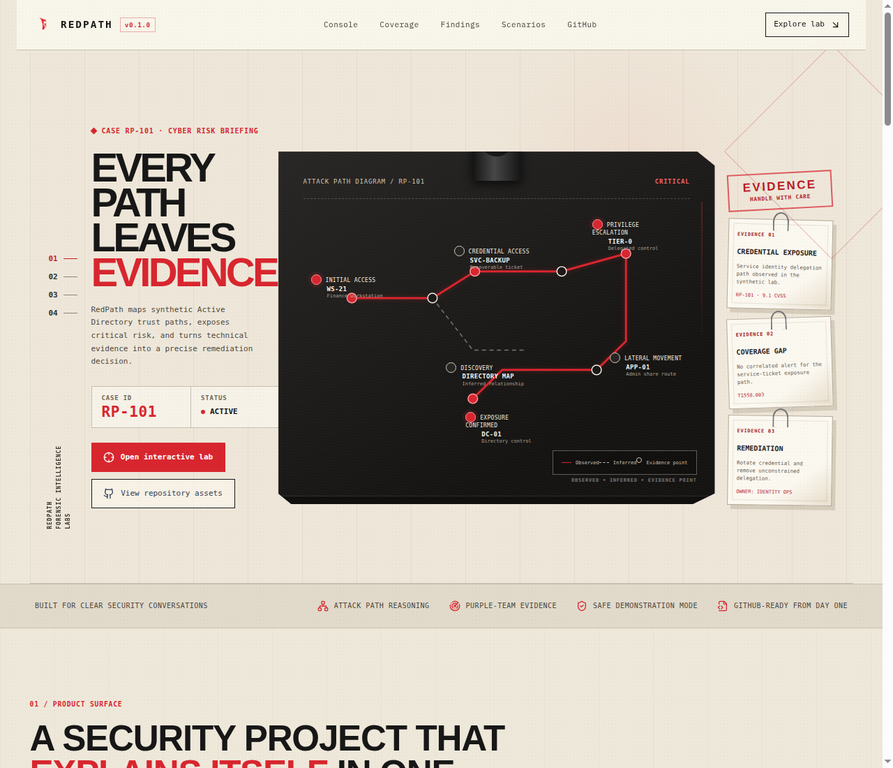
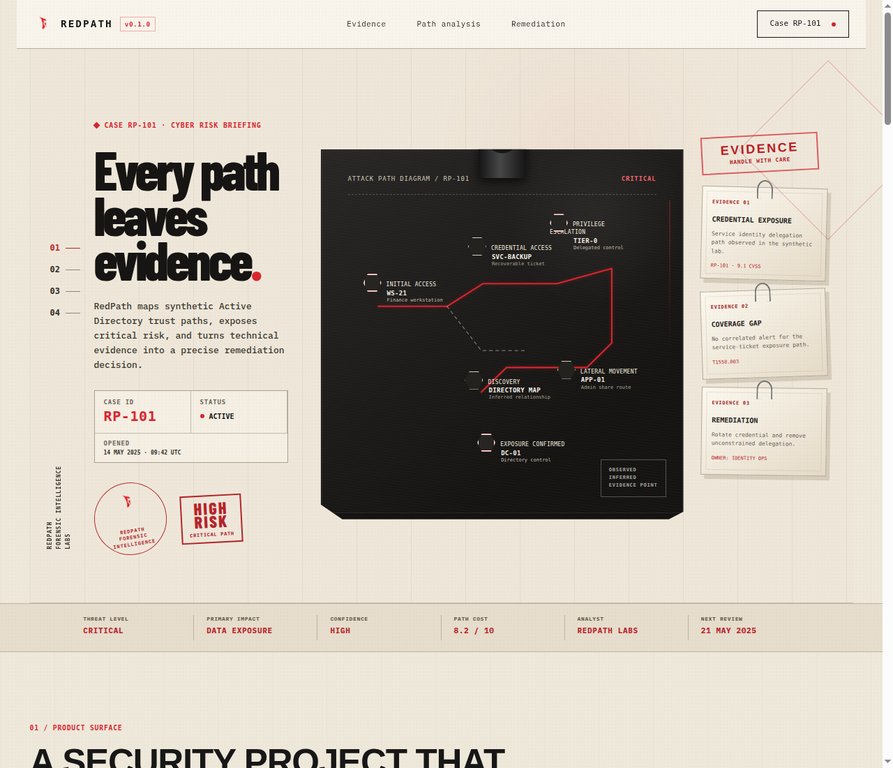
design: rebuild forensic casefile hero

diff --git a/frontend/src/forensic-exact-reference.css b/frontend/src/forensic-exact-reference.css
@@ -1,0 +1,10 @@
+/* Exact reference composition: RedPath content, forensic case-file structure. */
+.site-header { height: 70px; background: rgba(248,244,235,.96); border-bottom-color: #b9ae9b; }.site-nav { gap: 38px; }.site-nav a { font-family: "IBM Plex Mono", ui-monospace, monospace; font-size: 11px; color: #2f2a24; }.site-nav a:hover { color: #bb1f28; }.header-cta { position: relative; min-width: 132px; justify-content: center; padding: 10px 13px; border-radius: 0; background: #f7f2e9; }.header-cta::after { content: ""; width: 6px; height: 6px; margin-left: 8px; background: #cf2730; border-radius: 50%; }
+.hero { grid-template-columns: 342px minmax(560px, 1fr) 210px; min-height: 698px; gap: 34px; padding: 92px 38px 68px 116px; background: linear-gradient(90deg, rgba(88,73,53,.07) 1px, transparent 1px) 0 0 / 78px 100%, radial-gradient(circle at 67% 18%, rgba(217,39,48,.048), transparent 22%), #eee7d9; }.hero::after { width: 182px; height: 182px; right: -55px; top: 54px; }.hero-copy { align-self: start; padding-top: 10px; }.hero h1 { max-width: 355px; margin: 23px 0 24px; color: #171513; font-family: "Barlow Condensed", "Arial Narrow", sans-serif; font-size: clamp(74px, 6vw, 100px); font-weight: 800; line-height: .84; letter-spacing: -.055em; text-transform: none; }.hero h1 em { color: #161513; font-style: normal; }.hero h1 em::after { content: "."; color: #d8262f; }.hero-lede { max-width: 302px; color: #403a32; font: 500 13px/1.62 "IBM Plex Mono", ui-monospace, monospace; }.eyebrow { font-size: 10px; }.case-file-badge { display: grid; grid-template-columns: 1fr 1fr; width: 278px; margin-top: 26px; border-color: #aaa08f; background: rgba(250,247,239,.48); }.case-file-badge > div { min-height: 60px; padding: 11px 13px; border-color: #c3b9a8; }.case-file-badge strong { font-size: 20px; }.case-file-badge b { font-size: 10px; }.case-file-badge .case-opened { grid-column: 1 / -1; min-height: auto; padding: 9px 13px; border-right: 0; border-top: 1px solid #c3b9a8; }.case-file-badge .case-opened b { display: block; margin-top: 4px; color: #3b352d; font-size: 8px; }.hero-actions { display: none; }.case-stamp-row { display: flex; align-items: center; gap: 20px; margin-top: 28px; }.forensic-seal { display: grid; place-items: center; width: 104px; height: 104px; border: 1px solid #b92a30; border-radius: 50%; color: #b72a30; text-align: center; transform: rotate(-9deg); }.forensic-seal img { width: 30px; height: 35px; object-fit: contain; }.forensic-seal span { max-width: 66px; margin-top: -1px; font: 700 7px/1.35 "IBM Plex Mono", monospace; letter-spacing: .13em; }.risk-stamp { padding: 8px 10px 6px; color: #b6232b; border: 2px solid #b6232b; font: 800 24px/.78 "Barlow Condensed", sans-serif; letter-spacing: .09em; text-align: center; transform: rotate(-3deg); }.risk-stamp small { display: block; margin-top: 5px; font: 800 7px "IBM Plex Mono", monospace; letter-spacing: .1em; }
+.case-index-rail { top: 278px; left: 29px; gap: 17px; }.case-index-rail span { font-size: 12px; }.case-index-rail span::after { width: 21px; }
+.hero-panel { height: 572px; min-height: 572px; margin: 0; border: 1px solid #151412; border-bottom-width: 9px; clip-path: polygon(0 0, 100% 0, 100% 98%, 96% 100%, 6% 100%, 0 96%); background: repeating-linear-gradient(8deg, rgba(255,255,255,.02) 0 1px, transparent 1px 4px), radial-gradient(circle at 76% 18%, rgba(255,255,255,.05), transparent 23%), linear-gradient(145deg, #292725, #151412 76%); box-shadow: 0 18px 22px rgba(58,43,25,.32), inset 0 0 0 1px rgba(255,255,255,.08); }.hero-panel::before { top: -42px; width: 69px; height: 82px; }.hero-panel::after { content: "OBSERVED\A INFERRED\A EVIDENCE POINT"; white-space: pre; right: 24px; bottom: 23px; padding: 9px 11px; border: 1px solid rgba(255,255,255,.27); color: rgba(255,255,255,.62); font-size: 7px; line-height: 1.6; }.case-board { padding: 35px 38px 28px; }.case-board-head { padding-bottom: 15px; }.case-board-route { height: 411px; margin-top: 16px; }.case-board-route svg { inset: 26px 4px 0; height: 342px; }.case-board-route path { stroke-width: 2.5; }.case-board-route circle { display: none; }.board-point { max-width: 126px; font-size: 8px; }.board-point::before { width: 26px; height: 26px; margin: 0 7px -8px 0; border-radius: 0; clip-path: polygon(25% 0,75% 0,100% 50%,75% 100%,25% 100%,0 50%); background: #24221f; }.board-point b { margin-left: 34px; font-size: 9px; }.board-point small { margin-left: 34px; font-size: 7px; }.board-point.initial { left: 5%; top: 26%; }.board-point.credential { left: 39%; top: 12%; }.board-point.privilege { right: 6%; top: 3%; }.board-point.discovery { left: 38%; bottom: 25%; }.board-point.lateral { right: 6%; bottom: 29%; }.board-point.exfil { left: 42%; bottom: 1%; }.board-point.hot::before { background: #272522; box-shadow: inset 0 0 0 1px #f2eadd, 0 0 0 1px rgba(255,255,255,.25); }.board-point.hot b { color: #f4ede2; }.board-point.hot small { color: #c9bfb0; }.board-legend { display: none; }
+.case-evidence-rail { align-self: start; gap: 14px; padding-top: 31px; }.case-evidence-rail::after { top: 164px; right: -18px; padding: 15px 9px 10px; }.evidence-stamp { width: 190px; margin: 0 0 7px; padding: 10px 8px; font-size: 18px; }.evidence-card { min-height: 142px; padding: 17px 14px 12px; background: linear-gradient(145deg,#fbf8ef,#e5dac7); box-shadow: 5px 6px 0 rgba(106,81,57,.18); }.evidence-card b { font-size: 10px; }.evidence-card p { font-size: 8px; line-height: 1.58; }.evidence-card em { font-size: 7px; }
+.forensic-ledger { display: grid; grid-template-columns: repeat(6, 1fr); gap: 0; max-width: 100%; padding: 16px 8%; border-top: 1px solid #bdb29f; border-bottom: 1px solid #bdb29f; background: #e6ddcc; }.forensic-ledger > div { min-height: 36px; padding: 0 18px; border-right: 1px solid #bdb29f; }.forensic-ledger > div:last-child { border-right: 0; }.forensic-ledger span { display: block; color: #655b4e; font: 700 8px "IBM Plex Mono", monospace; letter-spacing: .08em; }.forensic-ledger b { display: block; margin-top: 5px; color: #b8222b; font: 800 11px "IBM Plex Mono", monospace; letter-spacing: .06em; }
+@media (max-width: 1320px) { .hero { grid-template-columns: 300px minmax(500px,1fr) 180px; gap: 25px; padding-left: 92px; }.hero h1 { max-width: 310px; font-size: 77px; }.hero-panel { height: 530px; min-height: 530px; }.case-board-route { height: 373px; }.case-board-route svg { height: 314px; }.evidence-card { min-height: 126px; }.evidence-stamp { width: 168px; } }
+@media (max-width: 1080px) { .hero { grid-template-columns: minmax(270px,.8fr) minmax(500px,1.25fr); min-height: 0; }.case-evidence-rail { grid-column: 1 / -1; grid-template-columns: repeat(3,1fr); align-self: auto; padding: 4px 34px 0; }.evidence-stamp { display: none; }.case-evidence-rail::after { display: none; }.evidence-card { min-height: 118px; }.forensic-ledger { grid-template-columns: repeat(3,1fr); row-gap: 18px; }.forensic-ledger > div:nth-child(3) { border-right: 0; } }
+@media (max-width: 760px) { .site-nav { display: none; }.hero { grid-template-columns: 1fr; padding: 64px 20px 50px 54px; gap: 46px; }.hero h1 { max-width: 330px; font-size: clamp(64px, 18vw, 82px); }.hero-panel { width: calc(100% - 6px); height: 500px; min-height: 500px; }.case-board { padding: 31px 21px; }.case-board-route { height: 346px; }.case-board-route svg { height: 292px; }.board-point { max-width: 91px; font-size: 6px; }.board-point::before { width: 18px; height: 18px; margin-right: 4px; }.board-point b { margin-left: 23px; font-size: 7px; }.board-point small { margin-left: 23px; font-size: 6px; }.case-evidence-rail { grid-column: auto; grid-template-columns: 1fr; padding: 0 8px 0 0; }.evidence-stamp { display: block; }.evidence-card { min-height: 110px; }.forensic-ledger { grid-template-columns: repeat(2,1fr); padding: 18px 12px 18px 48px; }.forensic-ledger > div { padding: 0 10px; }.forensic-ledger > div:nth-child(2n) { border-right: 0; } }

diff --git a/frontend/src/App.tsx b/frontend/src/App.tsx
@@ -55,9 +55,9 @@ export default function Home() {
       <header className="site-header">
         <a className="brand" href="#top" aria-label="RedPath home"><span className="brand-mark"><img className="brand-logo" src="/assets/redpath-logo-transparent.png" alt="" /></span><span>REDPATH</span><small>v0.1.0</small></a>
         <nav className="site-nav" aria-label="Primary navigation">
-          <a href="#explore">Console</a><a href="#coverage">Coverage</a><a href="#findings">Findings</a><a href="#scenarios">Scenarios</a><a href="#github">GitHub</a>
+          <a href="#findings">Evidence</a><a href="#explore">Path analysis</a><a href="#scenarios">Remediation</a>
         </nav>
-        <a className="header-cta" href="#explore">Explore lab <ArrowDownRight size={15} /></a>
+        <a className="header-cta" href="#explore">Case RP-101</a>
       </header>
 
       <main id="top">
@@ -65,9 +65,10 @@ export default function Home() {
           <div className="case-index-rail" aria-hidden="true"><span>01</span><span>02</span><span>03</span><span>04</span></div>
           <div className="hero-copy">
             <div className="eyebrow"><span className="pulse-dot" /> Case RP-101 · Cyber risk briefing</div>
-            <h1>Every path<br />leaves <em>evidence.</em></h1>
+            <h1>Every path<br />leaves <em>evidence</em></h1>
             <p className="hero-lede">RedPath maps synthetic Active Directory trust paths, exposes critical risk, and turns technical evidence into a precise remediation decision.</p>
-            <div className="case-file-badge"><div><span>CASE ID</span><strong>RP-101</strong></div><div><span>STATUS</span><b>ACTIVE</b></div></div>
+            <div className="case-file-badge"><div><span>CASE ID</span><strong>RP-101</strong></div><div><span>STATUS</span><b>ACTIVE</b></div><div className="case-opened"><span>OPENED</span><b>14 MAY 2025 · 09:42 UTC</b></div></div>
+            <div className="case-stamp-row"><div className="forensic-seal"><img src="/assets/redpath-logo-transparent.png" alt="" /><span>REDPATH FORENSIC INTELLIGENCE</span></div><div className="risk-stamp">HIGH<br />RISK<small>CRITICAL PATH</small></div></div>
             <div className="hero-actions"><a className="button primary" href="#explore"><Crosshair size={16} /> Open interactive lab</a><a className="button secondary" href="#github"><GitPullRequest size={16} /> View repository assets</a></div>
             <div className="hero-proof"><span><CheckCircle2 size={15} /> 100% synthetic lab data</span><span><CheckCircle2 size={15} /> zero configuration</span><span><CheckCircle2 size={15} /> safe dry-run only</span></div>
           </div>
@@ -89,7 +90,7 @@ export default function Home() {
           </aside>
         </section>
 
-        <section className="trust-strip"><span>Built for clear security conversations</span><div><span><Network size={16} /> Attack path reasoning</span><span><Radar size={16} /> Purple-team evidence</span><span><ShieldCheck size={16} /> Safe demonstration mode</span><span><FileCode2 size={16} /> GitHub-ready from day one</span></div></section>
+        <section className="forensic-ledger" aria-label="Case investigation metadata"><div><span>THREAT LEVEL</span><b>CRITICAL</b></div><div><span>PRIMARY IMPACT</span><b>DATA EXPOSURE</b></div><div><span>CONFIDENCE</span><b>HIGH</b></div><div><span>PATH COST</span><b>8.2 / 10</b></div><div><span>ANALYST</span><b>REDPATH LABS</b></div><div><span>NEXT REVIEW</span><b>21 MAY 2025</b></div></section>
 
         <section className="features section-shell" id="product">
           <div className="section-heading"><div><span className="section-index">01 / PRODUCT SURFACE</span><h2>A security project that <em>explains itself</em> in one screen.</h2></div><p>Every surface connects a finding to a path, a technique, the supporting evidence, and a defensible next action.</p></div>

diff --git a/frontend/index.html b/frontend/index.html
@@ -10,7 +10,7 @@
     <meta name="description" content="A safe-by-design Active Directory attack-path and detection coverage console powered by synthetic data." />
     <link rel="preconnect" href="https://fonts.googleapis.com" />
     <link rel="preconnect" href="https://fonts.gstatic.com" crossorigin />
-    <link href="https://fonts.googleapis.com/css2?family=IBM+Plex+Mono:wght@400;500;600;700&display=swap" rel="stylesheet" />
+    <link href="https://fonts.googleapis.com/css2?family=Barlow+Condensed:wght@600;700;800&family=IBM+Plex+Mono:wght@400;500;600;700&display=swap" rel="stylesheet" />
   </head>
 
   <body>

diff --git a/frontend/src/main.tsx b/frontend/src/main.tsx
@@ -6,6 +6,7 @@ import "./light-theme.css";
 import "./forensic-casefile.css";
 import "./forensic-reference-layout.css";
 import "./forensic-reference-fidelity.css";
+import "./forensic-exact-reference.css";
 
 ReactDOM.createRoot(document.getElementById("root")!).render(
   <React.StrictMode>
